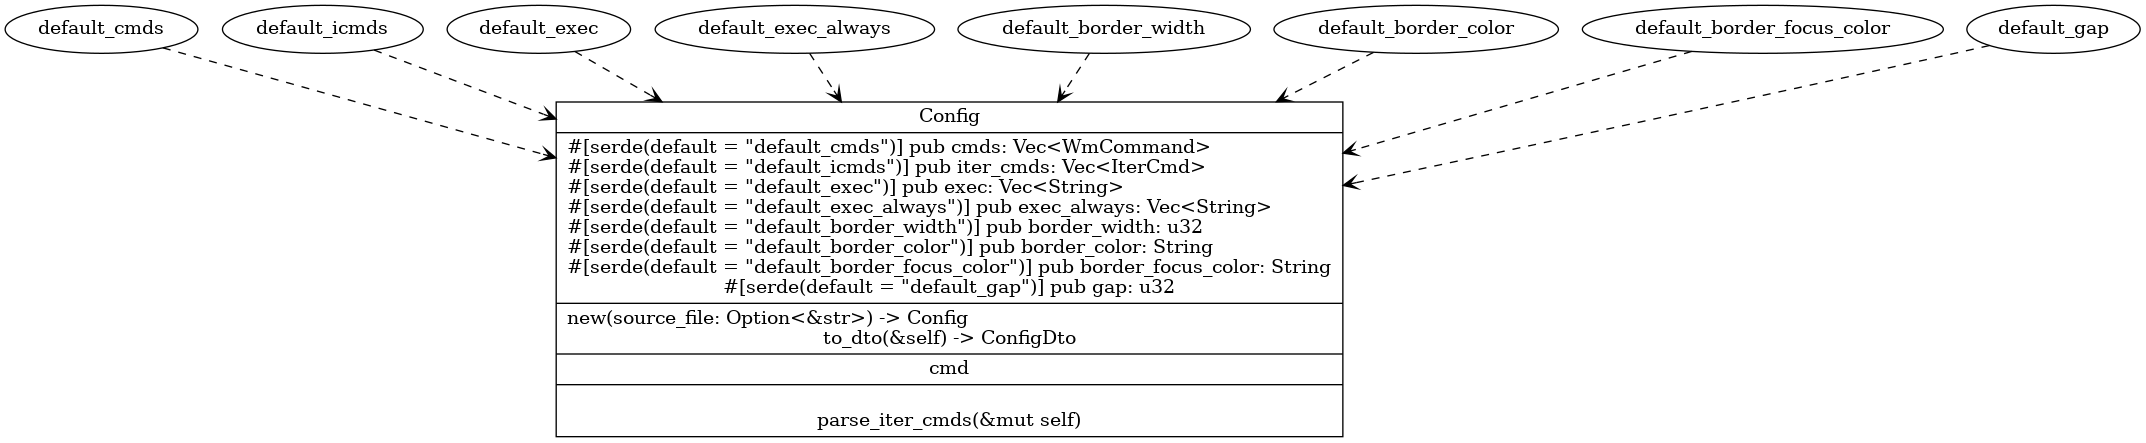
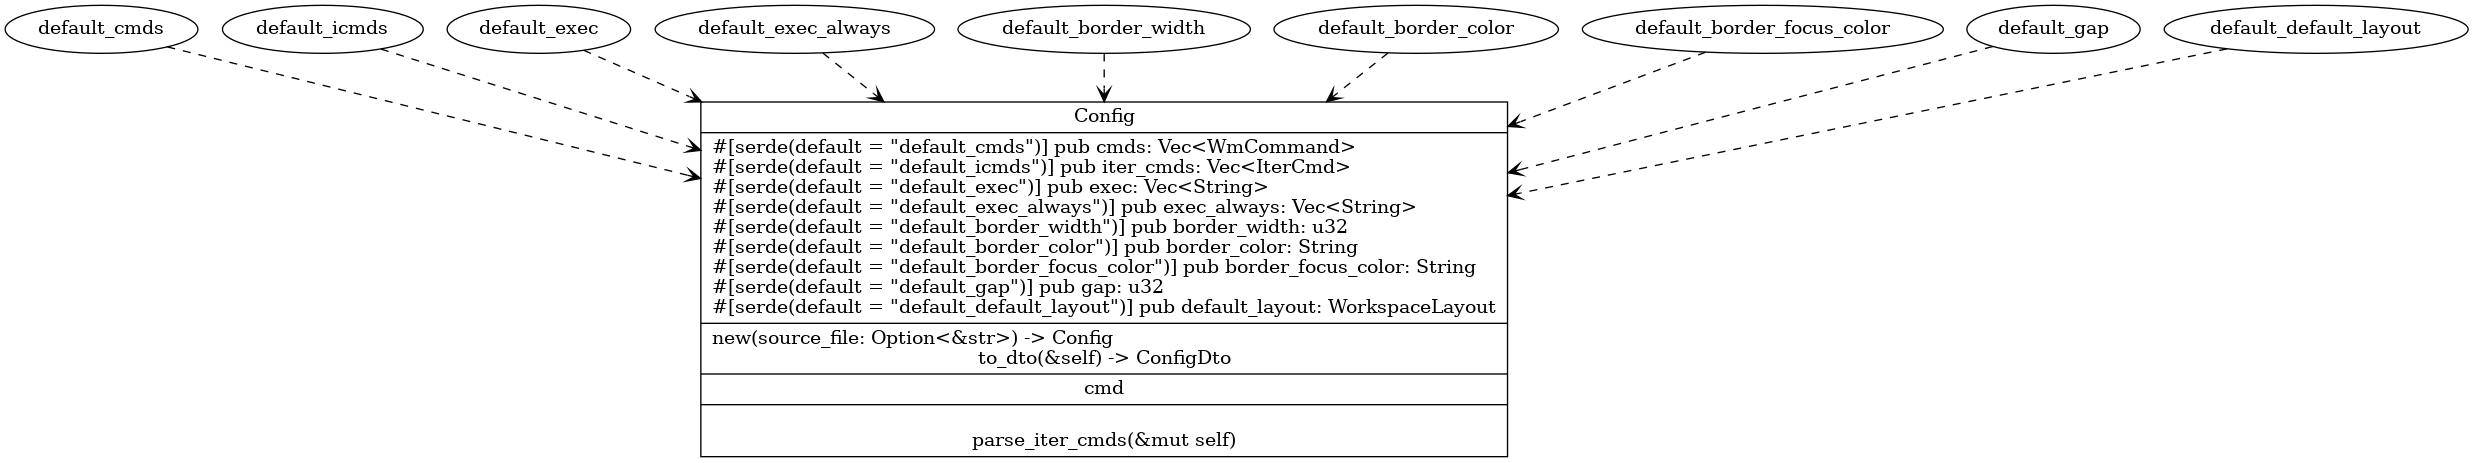
195 add default layout to config

diff --git a/src/config/mod.rs b/src/config/mod.rs
@@ -10,6 +10,8 @@ use std::fs::File;
 use std::path::Path;
 use std::process::Command;
 
+use crate::workspace::workspace_layout::WorkspaceLayout;
+
 const DEFAULT_BORDER_WIDTH: u32 = 3;
 
 const DEFAULT_BORDER_COLOR: &str = "0xFFFFFF"; // white
@@ -43,6 +45,9 @@ pub struct Config {
 
     #[serde(default = "default_gap")]
     pub gap: u32,
+
+    #[serde(default = "default_default_layout")]
+    pub default_layout: WorkspaceLayout,
 }
 impl Default for Config {
     fn default() -> Self {
@@ -55,6 +60,7 @@ impl Default for Config {
             border_color: default_border_color(),
             border_focus_color: default_border_focus_color(),
             gap: default_gap(),
+            default_layout: default_default_layout(),
         }
     }
 }
@@ -178,4 +184,8 @@ fn default_border_focus_color() -> String {
 }
 fn default_gap() -> u32 {
     DEFAULT_GAP
+}
+
+fn default_default_layout() -> WorkspaceLayout {
+    WorkspaceLayout::VerticalStriped
 }

diff --git a/src/workspace/mod.rs b/src/workspace/mod.rs
@@ -47,6 +47,7 @@ impl Workspace {
         screen_size: Rc<RefCell<ScreenSize>>,
         config: Rc<RefCell<Config>>,
     ) -> Workspace {
+        let default_layout = config.borrow().default_layout.clone();
         Workspace {
             connection,
             name,
@@ -58,7 +59,7 @@ impl Workspace {
             urgent: false,
             windows: HashMap::new(),
             order: Vec::new(),
-            layout: WorkspaceLayout::HorizontalStriped,
+            layout: default_layout,
         }
     }
 

diff --git a/src/workspace/workspace_layout.rs b/src/workspace/workspace_layout.rs
@@ -1,6 +1,6 @@
-use serde::Serialize;
+use serde::{Deserialize, Serialize};
 
-#[derive(Debug, Clone, Serialize)]
+#[derive(Debug, Clone, Serialize, Deserialize)]
 pub enum WorkspaceLayout {
     //Tiled, //blocked by https://github.com/DHBW-FN/OxideWM/issues/70
     VerticalStriped, //  |
